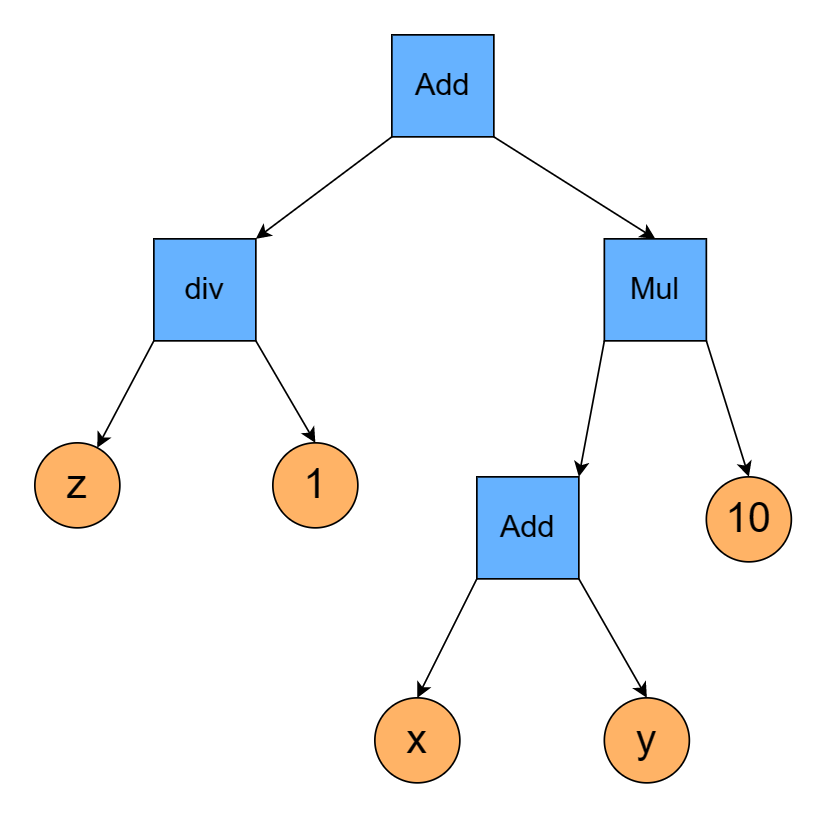
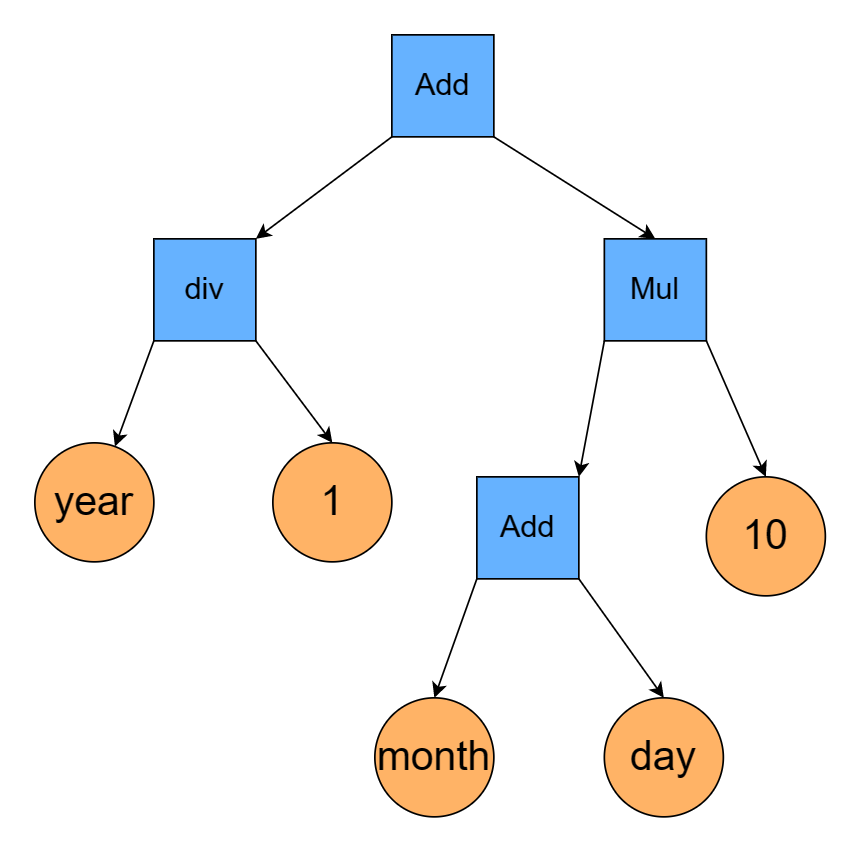
change format from x y z to date

diff --git a/README.md b/README.md
@@ -119,7 +119,13 @@ The "function set" is the set of all possible internal nodes of the tree.
 Besides the arithmetic functions that we have in EC-Kity, we add the "f_mod" function. Since we wanted to add cyclic elements 
 in our individuals since we know the weather has cyclic elements.
 
-……………………todo: mod function……………………
+```python
+def f_mod(x, y):
+    """x%y"""
+    """protected modulo: if abs(y) > 0.001 return x%y else return 0"""
+    with np.errstate(divide='ignore', invalid='ignore'):
+        return np.where(np.abs(y) > 0.001, np.mod(x, y), 0.)
+```
 
 ### Terminal set:
 
@@ -127,7 +133,9 @@ A "terminal set" is a set of values that do not change and are pre-oriented. The
 the functions in the "function set", and they are used to build the initial population of solutions, which developed.
 <br /> In our case, the "terminal set" includes constants numbers [0, 1, -1, 5, 10] and the variables[..........todo complete………………………].
 
-……………………………..to add our terminal set……………….
+```python
+terminal_set = ['month', 'day', 'year', 0, 1, -1, 5, 10]
+```
 
 At the beginning of the implementation, we considered only the [0, 1,-1] constants, but we didn't get good results. The 
 cause was it was hard to generate common temperatures such as 35 celsius since it requiere a high tree, and we got limitations 
@@ -135,7 +143,7 @@ on the tree's height (7). After we added to [10, 5] constants, our results impro
 
 The "terminal set" is the leaves in the tree.
 
-![](./photos/function_tree.png)
+![](./photos/Function_Tree.png)
 <br /> *This diagram represents an example of an individual when the blue squares are nodes from the function set, and 
 the orange circles are leaves from the terminal set.*
 
@@ -164,11 +172,11 @@ its performance. When the tree was too deep, it prone to overfitting, while when
 complexity to solve the problem effectively. Ultimately, we choose the initial depth of 2 to 7 after a few different runnings.
 
 ```python
-Subpopulation(creators=RampedHalfAndHalfCreator(init_depth=_getInitDepth(useDefaultData),
-                                                terminal_set=terminal_set,
-                                                function_set=my_full_function_set,
-                                                bloat_weight=_getBloatWeight(useDefaultData)),
-                      population_size=_getPopulation_size(useDefaultData),
+        Subpopulation(creators=RampedHalfAndHalfCreator(init_depth=get_init_depth(useDefaultData),
+                                                        terminal_set=terminal_set,
+                                                        function_set=function_set,
+                                                        bloat_weight=get_bloat_weight(useDefaultData)),
+                      population_size=get_population_size(useDefaultData),
 ```
 ### The evolution:
 
@@ -191,9 +199,9 @@ higher_is_better=False
 
 We implement the _evaluate_individual method, which evaluates a **fitness** score for an individual:
 ```python
-def _evaluate_individual(self, individual):
-    x, y, z = self.df['x'], self.df['y'], self.df['z']
-    return np.mean(np.abs(individual.execute(x=x, y=y, z=z) - self.df['target']))
+    def _evaluate_individual(self, individual):
+        month, day, year = self.df['month'], self.df['day'], self.df['year']
+        return np.mean(np.abs(individual.execute(month=month, day=day, year=year) - self.df['target']))
 ```
 
 #### Selection:
